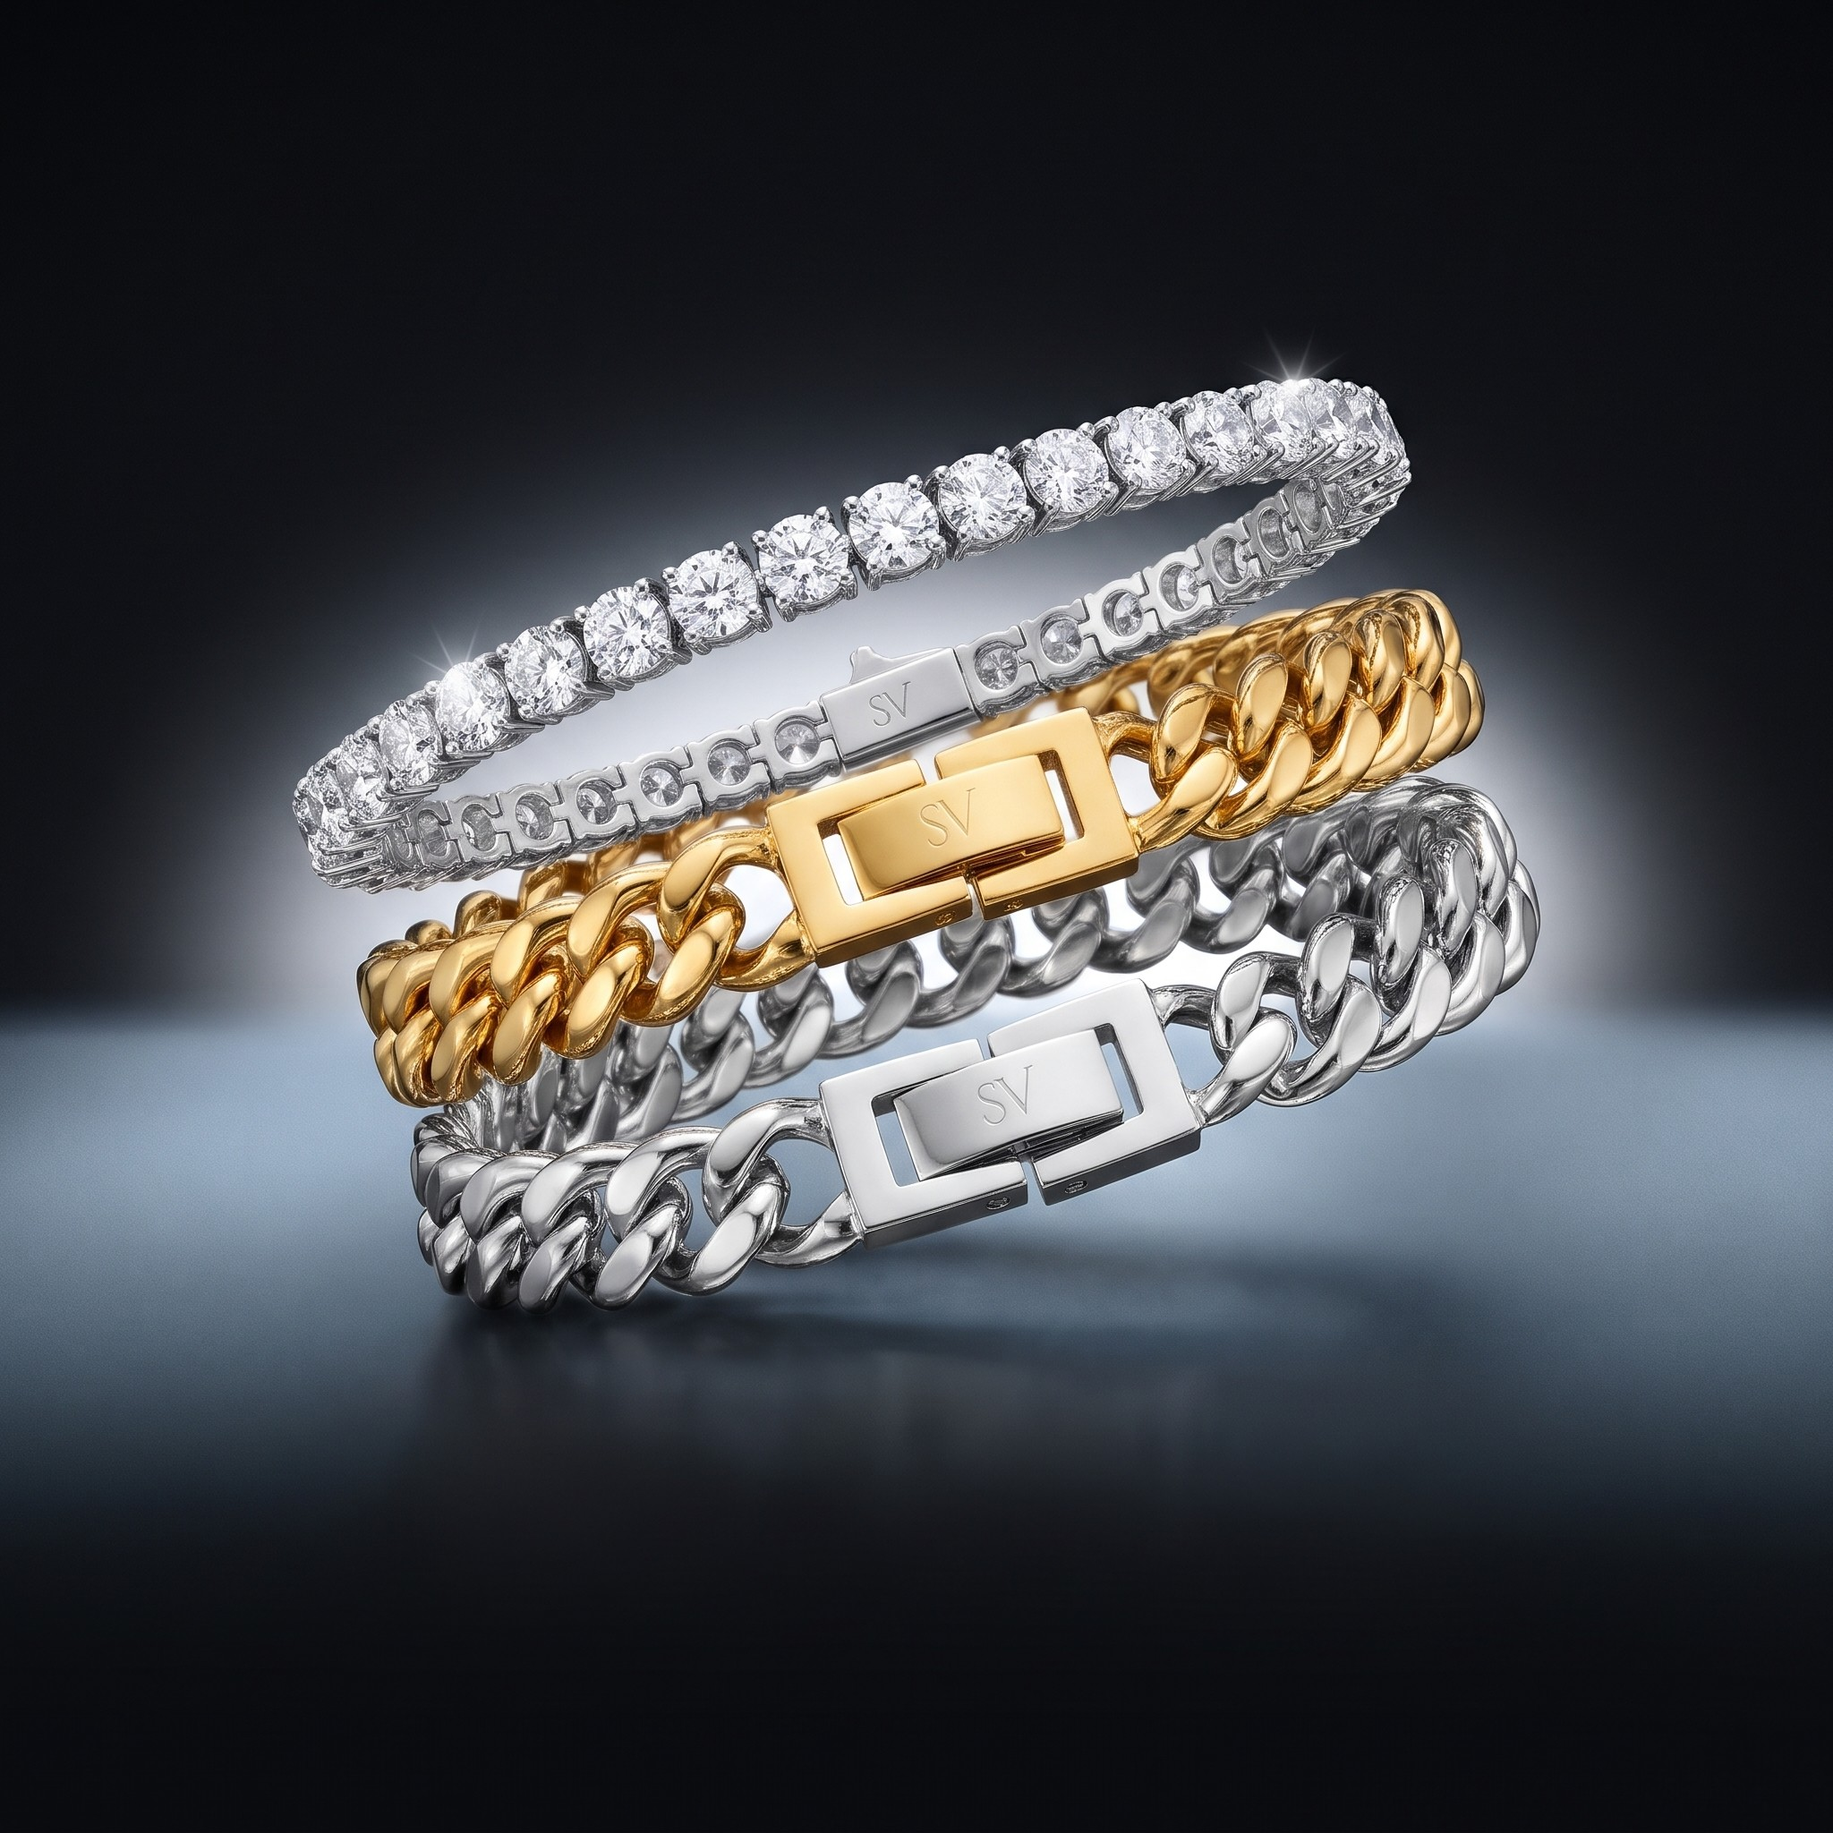
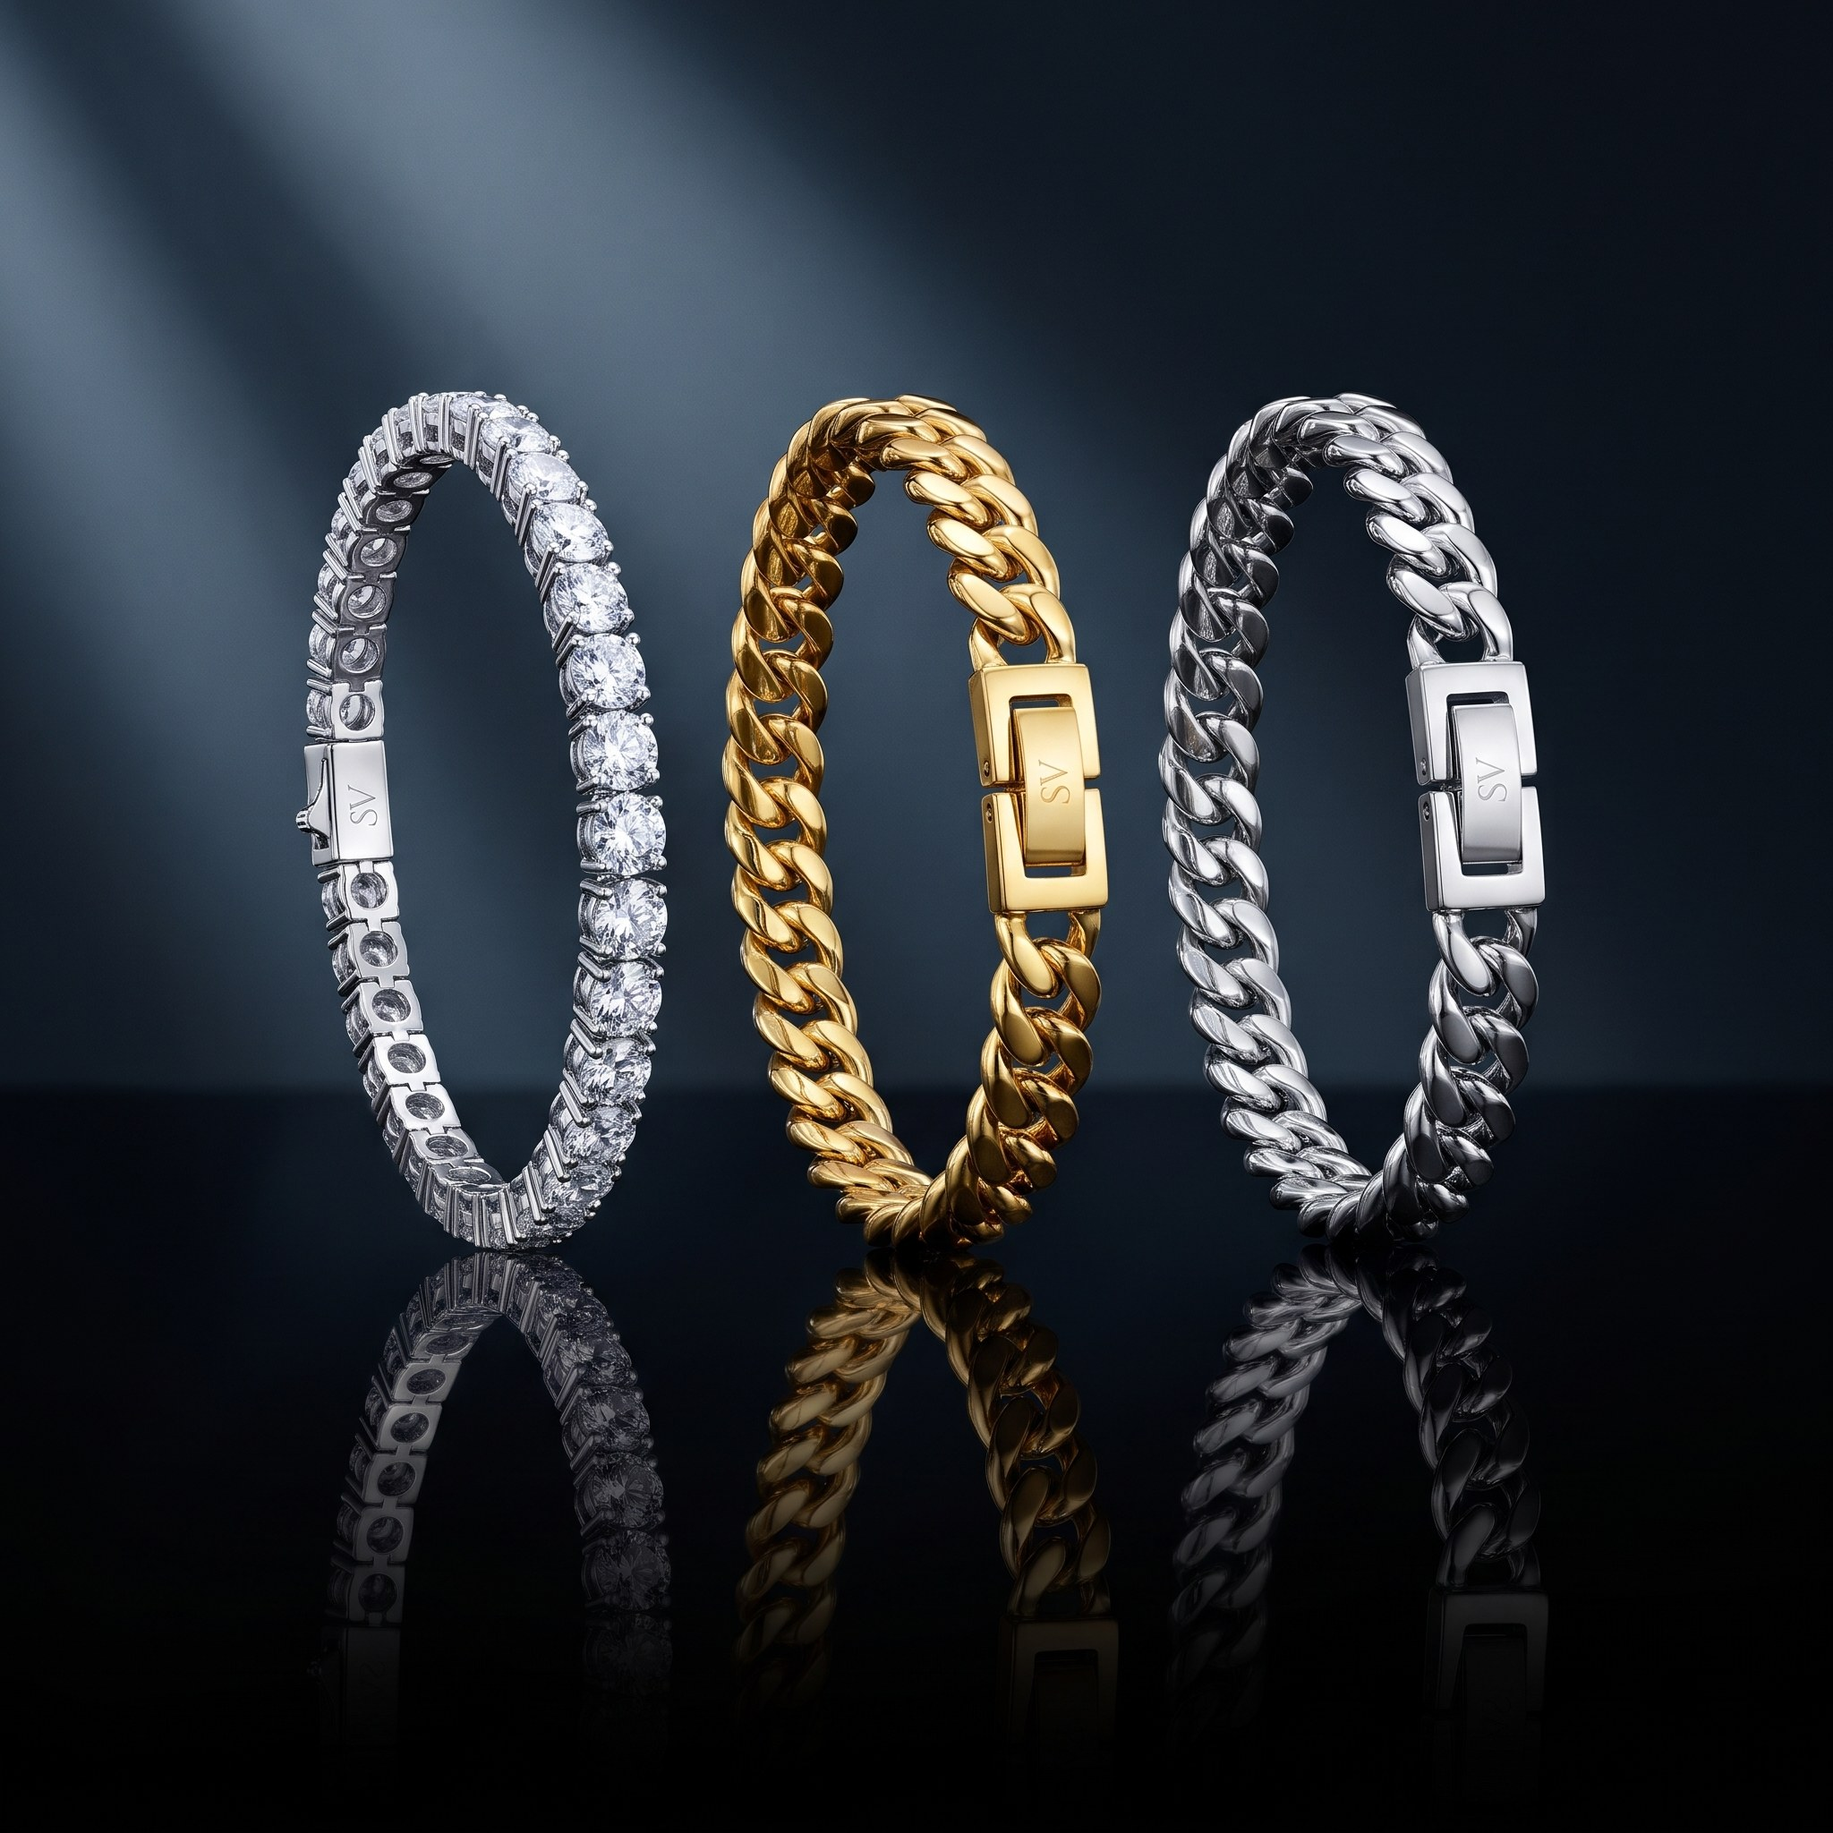
Fotos del inicio más realistas (fondo azul acero de Jaxxon, pulseras separadas, colgantes oro-plata-oro, anillos acostados) y menú con fotos en uso que se arma antes

diff --git a/admin/app.js b/admin/app.js
@@ -1,49 +1,49 @@
 /* Saint Venik · Panel de la app. Sin framework ni paso de compilacion: son
  * archivos estaticos que el admin de Shopify carga embebidos. */
-import { estaEmbebida } from './api.js?v=202611092253';
+import { estaEmbebida } from './api.js?v=202611092301';
 import {
   cargarColores, guardarColor, crearColor, borrarColor, problemasDe, ordenarComoLaTienda,
   guardarImagenColor, camposDeColor,
-} from './colores.js?v=202611092253';
+} from './colores.js?v=202611092301';
 import {
   leerConfig, guardarOrdenColores, guardarTextosBoton, guardarApariencia,
   guardarPildora, camposDeConfig, PILDORA_POR_DEFECTO,
   guardarDescuento, guardarMenu, guardarInicio, DESCUENTO_POR_DEFECTO, FORMATOS_DESCUENTO, textoDescuento, contarConDescuento,
   guardarTransicion, TRANSICION_POR_DEFECTO, guardarFiltrosConfig, FILTROS_POR_DEFECTO,
-} from './config.js?v=202611092253';
+} from './config.js?v=202611092301';
 import {
   FILTROS as FILTROS_PRODUCTO, cargarBotones, crearBoton, guardarBoton, borrarBoton,
   cargarProductosFiltro, guardarClasificacion, sugerir,
-} from './filtros.js?v=202611092253';
+} from './filtros.js?v=202611092301';
 import {
   buscarProductos, todosLosProductos, vincular, desvincular, sinHermano, sinColor, ponerEtiquetaColor,
-} from './productos.js?v=202611092253';
-import { prepararNavidad } from './inicio.js?v=202611092253';
-import { subirArchivo, elegirDeBiblioteca, hayBiblioteca, copiarArchivo, reemplazarArchivo, traerArchivo } from './archivos.js?v=202611092253';
+} from './productos.js?v=202611092301';
+import { prepararNavidad } from './inicio.js?v=202611092301';
+import { subirArchivo, elegirDeBiblioteca, hayBiblioteca, copiarArchivo, reemplazarArchivo, traerArchivo } from './archivos.js?v=202611092301';
 import {
   estadoEstructura, revisarEstructura, crearEstructura, cargarGuias, GUIAS_INICIALES,
   crearBloque, guardarBloque, borrarBloque, moverBloque, guardarGuia, guardarArchivoDeBloque, NOMBRE_TIPO,
   revisarReparto, crearGuia, TOPE_GUIAS, importarGuias,
-} from './guias.js?v=202611092253';
+} from './guias.js?v=202611092301';
 import {
   guiaHtml, coloresHtml, visible, etiquetaHtml, beneficiosHtml, estiloEtiqueta, conAlfa, iconoHtml,
-} from './vista-previa.js?v=202611092253';
-import { cargarColecciones, cargarEtiquetasDeTienda, esResta, sinSigno, TOPE_REFERENCIAS } from './asignacion.js?v=202611092253';
+} from './vista-previa.js?v=202611092301';
+import { cargarColecciones, cargarEtiquetasDeTienda, esResta, sinSigno, TOPE_REFERENCIAS } from './asignacion.js?v=202611092301';
 import {
   cargarEtiquetas, crearEtiqueta, guardarEtiqueta, borrarEtiqueta,
   sincronizar as sincronizarEtiqueta, cuantosAlcanza as alcanceEtiqueta, camposDeEtiqueta,
   FONDO_POR_DEFECTO, TEXTO_POR_DEFECTO,
-} from './etiquetas.js?v=202611092253';
+} from './etiquetas.js?v=202611092301';
 import {
   cargarBeneficios, crearBeneficio, guardarBeneficio, borrarBeneficio,
   sincronizar as sincronizarBeneficio, cuantosAlcanza as alcanceBeneficio,
   guardarIconoImagen, camposDeBeneficio,
-} from './beneficios.js?v=202611092253';
-import { ICONOS, svgIcono } from './iconos.js?v=202611092253';
+} from './beneficios.js?v=202611092301';
+import { ICONOS, svgIcono } from './iconos.js?v=202611092301';
 
 /* La sella scripts/version.mjs al publicar. No se deduce de la URL porque ahora
  * la URL lleva un sello por minuto para saltarse la cache, no la version. */
-const VERSION = '202611092253';
+const VERSION = '202611092301';
 
 const pantalla = document.getElementById('pantalla');
 const aviso = document.getElementById('aviso');
@@ -924,7 +924,7 @@ async function pintarApariencia() {
           </s-select>
         </s-grid>
         <p class="ayuda" id="i-enlace" hidden>Para verlo antes de encenderlo: <a target="_blank" rel="noopener" href="https://${escapar(tienda)}/?sv-vista=1">abre la tienda con este enlace</a>. Solo lo ve quien entra por ahí.</p>
-        <p class="ayuda">Fotos de colección estilo Jaxxon (9-nov, Nano Banana): este botón las deja en Contenido → Archivos de la tienda como sv-inicio-cadenas.jpg, -pulseras, -colgantes y -anillos. Después se eligen en cada tarjeta de la cuadrícula. Si ya estaban, las cambia por la versión más nueva en el mismo archivo, y la tienda la muestra sola (9-nov: anillos con el Eros Oro).</p>
+        <p class="ayuda">Fotos de colección estilo Jaxxon (9-nov, Nano Banana): este botón las deja en Contenido → Archivos de la tienda como sv-inicio-cadenas.jpg, -pulseras, -colgantes y -anillos. Después se eligen en cada tarjeta de la cuadrícula. Si ya estaban, las cambia por la versión más nueva en el mismo archivo, y la tienda la muestra sola. También trae las fotos en uso de las tarjetas del menú del teléfono (sv-menu-cadenas.jpg, etc.).</p>
         <p class="ayuda">«Preparar las fotos de Navidad» deja la foto de terciopelo rojo en cada colección y los banners de Navidad de las páginas de colección (Cadenas, Pulseras, Anillos, Colgantes, Conjuntos, Essentials y Best Sellers, con otras joyas). Si ya estaban, los cambia por la versión más nueva en el mismo archivo, sin crear copias. También la foto de la sección «El regalo Nº1 para él», que aparece en el inicio, donde estaba el 3x2, con un botón a Best Sellers. Todo se ve al poner la temporada en Navidad; para mirarlo antes, abre la tienda con ?sv-navidad=1 al final de la dirección (sirve en el inicio y en las colecciones).</p>
         <s-stack direction="inline" gap="base">
           <s-button id="i-fotos">Traer las fotos nuevas a Archivos</s-button>
@@ -2009,6 +2009,11 @@ function conectarInicio(inicio) {
         const r = await traerArchivo(`${base}sv-inicio-${n}.jpg?v=${v}`);
         hechas.push(decodeURIComponent((r.url || '').split('/').pop().split('?')[0]));
       }
+      /* Las fotos en uso de las tarjetas del menú del teléfono (sv-menu-<colección>.jpg). */
+      for (const n of ['cadenas', 'pulseras', 'anillos', 'colgantes', 'conjuntos', 'best-sellers', 'essentials']) {
+        await traerArchivo(`${base}sv-menu-${n}.jpg?v=${v}`);
+      }
+      hechas.push('fotos del menú');
       avisar(`Fotos en Archivos: ${hechas.join(', ')}`);
     } catch (error2) {
       avisar(`${hechas.length ? `Se copiaron ${hechas.join(', ')}. ` : ''}${error2.message}`, true);

diff --git a/extensions/saint-venik/assets/sv-menu.js b/extensions/saint-venik/assets/sv-menu.js
@@ -77,7 +77,8 @@
       var link = li.querySelector('a');
       var r = link && !li.querySelector('.mobile-nav__sublist') ? ruta(link) : '';
       var h = (/\/collections\/([^\/?#]+)$/.exec(r) || [])[1];
-      var foto = mapa[r];
+      /* Foto en uso propia del menú (sv-menu-<colección>.jpg en Archivos, 9-nov) si la hay. */
+      var foto = (C.h && h && C.h[/essentials/.test(h) ? 'essentials' : h]) || mapa[r];
       if (!foto && (!h || h === 'all')) {
         li.classList.add('sv-menu-simple');
         continue;
@@ -100,9 +101,24 @@
     document.addEventListener('click', function (e) {
       if (e.target.closest && e.target.closest('.js-drawer-open-nav, [aria-controls="NavDrawer"]')) cargar();
     }, true);
-    window.addEventListener('load', function () { setTimeout(cargar, 4000); });
+    if (document.readyState === 'complete') cargar();
+    else window.addEventListener('load', cargar);
+    document.addEventListener('touchstart', cargar, { passive: true, once: true });
   }
 
-  if (document.readyState === 'loading') document.addEventListener('DOMContentLoaded', armar);
-  else armar();
+  /* Se carga async y arma el cajón apenas está entero en la página (ya hay
+   * algo después de él), sin esperar a que se lea toda la colección: en un
+   * teléfono lento, abrir el menú antes mostraba el del tema o fotos vacías. */
+  function entero(d) {
+    for (var n = d; n && n !== document.body; n = n.parentNode) if (n.nextElementSibling) return true;
+    return false;
+  }
+  function cuando() {
+    var d = document.getElementById('NavDrawer');
+    if (d && entero(d)) { armar(); return; }
+    if (document.readyState === 'loading') requestAnimationFrame(cuando);
+    else armar();
+  }
+  cuando();
+  document.addEventListener('DOMContentLoaded', armar);
 }());

diff --git a/admin/guias.js b/admin/guias.js
@@ -26,16 +26,16 @@
  * con "La capacidad no esta activada: publishable", y aqui no aporta nada: la
  * visibilidad en la tienda ya la decide PUBLIC_READ.
  */
-import { gql, comprobarErrores, capacidadActiva, enUnaPasada } from './api.js?v=202611092253';
-import { asegurarConfig, existeConfig, faltanCamposConfig } from './config.js?v=202611092253';
-import { faltaEstructuraColor, asegurarEstructuraColor } from './colores.js?v=202611092253';
-import { copiarArchivo } from './archivos.js?v=202611092253';
-import { faltaEstructuraEtiquetas, asegurarEstructuraEtiquetas } from './etiquetas.js?v=202611092253';
-import { faltaEstructuraFiltros, asegurarEstructuraFiltros } from './filtros.js?v=202611092253';
+import { gql, comprobarErrores, capacidadActiva, enUnaPasada } from './api.js?v=202611092301';
+import { asegurarConfig, existeConfig, faltanCamposConfig } from './config.js?v=202611092301';
+import { faltaEstructuraColor, asegurarEstructuraColor } from './colores.js?v=202611092301';
+import { copiarArchivo } from './archivos.js?v=202611092301';
+import { faltaEstructuraEtiquetas, asegurarEstructuraEtiquetas } from './etiquetas.js?v=202611092301';
+import { faltaEstructuraFiltros, asegurarEstructuraFiltros } from './filtros.js?v=202611092301';
 import {
   faltaEstructuraBeneficios, asegurarEstructuraBeneficios, sembrarBeneficios,
-} from './beneficios.js?v=202611092253';
-import { faltaEstructuraInicio, asegurarEstructuraInicio } from './inicio.js?v=202611092253';
+} from './beneficios.js?v=202611092301';
+import { faltaEstructuraInicio, asegurarEstructuraInicio } from './inicio.js?v=202611092301';
 
 export const TIPO_BLOQUE = 'bloque_guia';
 

diff --git a/admin/filtros.js b/admin/filtros.js
@@ -23,11 +23,11 @@
  * filtro de Shopify puesto (?filter.p.m.custom.sv_color=Dorado). Asi los
  * botones, el menu «Filtrar» y la paginacion dicen siempre lo mismo.
  */
-import { gql, comprobarErrores } from './api.js?v=202611092253';
+import { gql, comprobarErrores } from './api.js?v=202611092301';
 import {
   aObjetoComun, cargarEntradas, crearEntrada, guardarEntrada, borrarEntrada,
   faltaEstructura, asegurarEstructura, TOPE_ENTRADAS,
-} from './asignacion.js?v=202611092253';
+} from './asignacion.js?v=202611092301';
 
 /* ---------------------------------------------------------------------------
  * Los tres metacampos de producto

diff --git a/admin/beneficios.js b/admin/beneficios.js
@@ -16,8 +16,8 @@ import {
   CAMPOS_COMUNES, aObjetoComun, cargarEntradas, camposComunes, crearEntrada,
   guardarEntrada, borrarEntrada, faltaEstructura, asegurarEstructura,
   resolverHandles, camposDeTipo, TOPE_ENTRADAS,
-} from './asignacion.js?v=202611092253';
-import { gql } from './api.js?v=202611092253';
+} from './asignacion.js?v=202611092301';
+import { gql } from './api.js?v=202611092301';
 
 export const TIPO_BENEFICIO = 'sv_beneficio';
 export const TOPE_BENEFICIOS = TOPE_ENTRADAS;

diff --git a/admin/config.js b/admin/config.js
@@ -8,7 +8,7 @@
  * el mecanismo que ya está probado de punta a punta en esta app (se escribe
  * desde el panel, se lee desde Liquid), y no añade permisos nuevos.
  */
-import { gql, comprobarErrores } from './api.js?v=202611092253';
+import { gql, comprobarErrores } from './api.js?v=202611092301';
 
 export const TIPO_CONFIG = 'sv_configuracion';
 /* Shopify admite como mucho 40 campos por definición de metaobjeto y

diff --git a/admin/etiquetas.js b/admin/etiquetas.js
@@ -12,7 +12,7 @@ import {
   CAMPOS_COMUNES, aObjetoComun, cargarEntradas, camposComunes, crearEntrada,
   guardarEntrada, borrarEntrada, faltaEstructura, asegurarEstructura,
   resolverHandles, camposDeTipo, TOPE_ENTRADAS,
-} from './asignacion.js?v=202611092253';
+} from './asignacion.js?v=202611092301';
 
 export const TIPO_ETIQUETA = 'sv_etiqueta';
 export const TOPE_ETIQUETAS = TOPE_ENTRADAS;

diff --git a/admin/inicio.js b/admin/inicio.js
@@ -1,7 +1,7 @@
 /* Inicio de la tienda: la cuadrícula de colecciones sobre negro (reunión
  * 9-nov). En Navidad, cada foto es la del metacampo de colección
  * custom.foto_navidad, que esta app crea. */
-import { gql, comprobarErrores } from './api.js?v=202611092253';
+import { gql, comprobarErrores } from './api.js?v=202611092301';
 
 const METACAMPO_NAVIDAD = `
   query MetacampoNavidad {

diff --git a/admin/asignacion.js b/admin/asignacion.js
@@ -19,7 +19,7 @@
  * y el storefront, en una pagina de coleccion, se fia de la coleccion y no de
  * la cadena.
  */
-import { gql, comprobarErrores, capacidadActiva } from './api.js?v=202611092253';
+import { gql, comprobarErrores, capacidadActiva } from './api.js?v=202611092301';
 
 /* Los campos que comparten los dos tipos. Cada pantalla añade los suyos. */
 export const CAMPOS_COMUNES = [

diff --git a/admin/archivos.js b/admin/archivos.js
@@ -10,7 +10,7 @@
  * Por eso se comprueba el host ANTES de intentarlo y, si no es de los conocidos,
  * se explica que paso en vez de dejar un error mudo.
  */
-import { gql, comprobarErrores } from './api.js?v=202611092253';
+import { gql, comprobarErrores } from './api.js?v=202611092301';
 
 const HOSTS_CON_CORS = /(storage\.googleapis\.com|s3\.amazonaws\.com)$/;
 

diff --git a/admin/productos.js b/admin/productos.js
@@ -9,7 +9,7 @@
  * selector apareciendo en una ficha y no en la otra, que es un fallo molesto de
  * encontrar porque cada ficha por separado parece correcta.
  */
-import { gql, comprobarErrores } from './api.js?v=202611092253';
+import { gql, comprobarErrores } from './api.js?v=202611092301';
 
 const NAMESPACE = 'custom';
 const CLAVE = 'hermano_de_color';

diff --git a/admin/colores.js b/admin/colores.js
@@ -5,7 +5,7 @@
  * color es la etiqueta: el producto lleva `oro` o `acero-inox`, y la entrada
  * guarda esa misma etiqueta en el campo `etiqueta`.
  */
-import { gql, comprobarErrores, capacidadActiva } from './api.js?v=202611092253';
+import { gql, comprobarErrores, capacidadActiva } from './api.js?v=202611092301';
 
 export const TIPO_COLOR = 'color';
 
